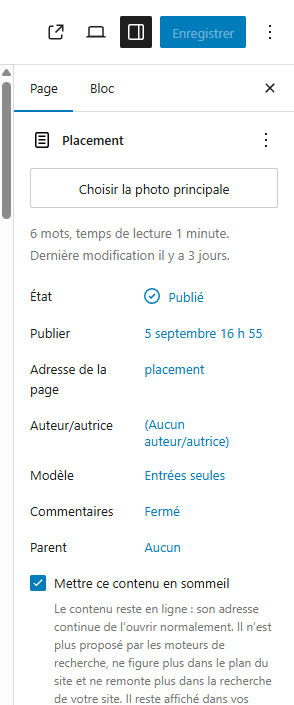
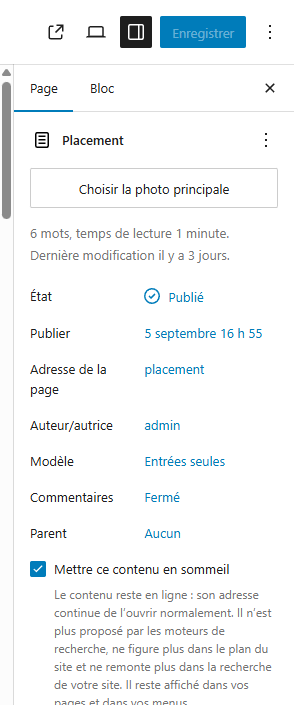
fix(contenu): reprendre la capture apres le correctif de #56 et acter la mesure de la page d'accueil (refs #54)
La capture « sommeil-page-zone-laterale.png » est reprise apres le correctif de
#56 (3dee808) : la rangee Auteur/autrice affiche de nouveau sa valeur reelle
(« admin ») au lieu de « (Aucun auteur/autrice) ». Sept assertions jouees avant
l'ecriture du fichier, la septieme portant sur cette rangee precisement, pour
que le defaut ne repasse pas en silence. La reprise annoncee au §12 ter est
soldee.

L'alt de la fiche n'est PAS retouche, et c'est mesure : sept rangees, meme
ordre, « Adresse de la page » toujours sur deux lignes. La condition posee au
§12 ter — reajuster si la hauteur ou l'ordre change — n'est pas remplie.

En revanche la premisse de la page d'accueil RESISTE a sa refutation, et le
contrat ne la corrige donc pas. Mesure sur post.php?post=6&action=edit, page
reglee en page d'accueil, en administrateur : la rangee rend « Lien », et ni
« Slug » ni « Adresse de la page ». Trois appuis concordants — le paquet
(isFrontPage ? __("Link") : __("Slug")), le catalogue ("Link":["Lien"]) et une
sonde DOM. Aucun mot interdit par §10.4 n'y parait pour autant : c'est une
limite de couverture, pas une faussete, et il n'y a rien a reparer. Seule
imprecision reellement corrigee : la source est « Link », l'affichage « Lien ».

Fait annexe releve au passage : l'ecran de la page d'accueil porte huit rangees
et non sept, une rangee « Revisions » s'intercalant avant « Parent ».

Claude-Session: https://claude.ai/code/session_01HmmUyw2FKmc8unYwFNU33k

Changed region(s): [[0.0918, 0.5929, 0.9184, 1.0]]

diff --git a/docs/contracts/issue-54.md b/docs/contracts/issue-54.md
@@ -549,6 +549,77 @@ oublié. **#56 a été renvoyée au travail sur ce défaut.** Dès que son corre
 
 ---
 
+## 12 quater. Acte du 2026-09-08 (second) — reprise faite, et une prémisse qui RÉSISTE à sa réfutation
+
+Aucune phrase gelée n'est réécrite ci-dessus ; cet acte s'y ajoute et prime sur elle en cas d'écart.
+
+### A. La capture est reprise — la reprise annoncée au §12 ter est SOLDÉE
+
+`docs/guide/captures/sommeil-page-zone-laterale.png` — **294 × 705**, 22 366 octets, Chrome installé en
+`--lang=fr-FR`, après le correctif de #56 (`3dee808`). **Sept assertions jouées avant l'écriture**, la
+septième étant celle que ce défaut a rendue nécessaire :
+
+```
+« Adresse de la page » présent                                              OK
+aucune feuille ne vaut exactement « Slug »                                  OK   (recherche exhaustive)
+case « Mettre ce contenu en sommeil » cochée                                OK
+« image mise en avant » absent de l'écran                                   OK   (0 occurrence)
+bouton « Enregistrer » présent                                              OK
+bouton « Enregistrer » compris dans le cadre de 294 px                      OK
+rangée Auteur/autrice résolue, non vide, pas « (Aucun auteur/autrice) »     OK → « admin »   ← 7e
+```
+
+**L'`alt` de `contenu-mettre-en-sommeil-et-reveiller.md:70` n'est PAS retouché, et c'est mesuré, pas
+supposé** : les rangées restent au nombre de sept, dans le même ordre, et « Adresse de la page » tient
+toujours sur **deux lignes** en surélevant sa rangée. La condition posée au §12 ter — « réajuster si la
+hauteur ou l'ordre change » — **n'est pas remplie**. Image et `alt` restent cohérents.
+
+### B. La page d'accueil — la prémisse du §12 bis est CONFIRMÉE, pas infirmée
+
+Il m'a été demandé de corriger le §12 bis au motif que la page d'accueil afficherait « Adresse de la
+page » comme n'importe quelle page, la rangée « Lien » n'existant que dans l'Éditeur de site.
+**Je ne l'ai pas corrigé, parce que ma propre mesure dit l'inverse**, et la règle de ce lot est qu'une
+affirmation se rouvre sur le disque avant d'entrer dans un contrat — quelle qu'en soit la source.
+
+Mesuré sur `post.php?post=6&action=edit`, page réglée en page d'accueil
+(`show_on_front=page`, `page_on_front=6`), **en administrateur**, après le correctif de #56 :
+
+```
+rangées : État · Publier · Lien · Auteur/autrice · Modèle · Commentaires · Révisions · Parent
+« Lien » = 1     « Slug » = 0     « Adresse de la page » = 0
+```
+
+Trois appuis indépendants, tous relevés dans le conteneur :
+
+```
+wp-includes/js/dist/editor.js     isFrontPage ? __("Link") : __("Slug")
+catalogue fr_FR-bf0f0949….json    "Link":["Lien"]
+sonde DOM sur post.php?post=6     la rangée rend « Lien »
+```
+
+**La rangée de la page d'accueil n'est donc pas couverte par ce module, et ce n'est pas un oubli** :
+notre table ne porte que le `msgid` `Slug`, et le cœur n'émet pas `Slug` sur cet écran. Aucun mot
+**interdit** par §10.4 n'y paraît pour autant — « Lien » n'est pas dans la liste des 21 —, donc **rien
+n'est à réparer** ; c'est une **limite de couverture**, pas une fausseté.
+
+**Une seule imprécision est réellement corrigée ici** : le §12 bis écrit « la rangée **dit** "Link" ».
+Le mot **affiché** est « **Lien** » ; « Link » est la **chaîne source** anglaise. Le module a raison de
+citer l'anglais — il compare sur l'anglais — mais « dit » désignait l'écran. Lire désormais : *source
+`Link`, affichage « Lien »*. Même lecture pour les deux commentaires du module qui emploient « Link »
+(`bootstrap.php` et `libelles.php`) : ils nomment la source, ils ne se trompent pas.
+
+**Fait annexe, non relevé jusqu'ici** : l'écran de la page d'accueil porte **huit** rangées et non
+sept — une rangée **« Révisions »** s'intercale avant « Parent ». Sans effet sur #54, écrit pour que
+personne ne l'ajoute à la table en croyant combler un trou.
+
+> **Imputation, dite franchement.** Je n'ai pas mesuré la page d'accueil dans la passe initiale : le
+> §12 bis la classait en « non mesuré », ce qui était honnête, et sa mention de « Link » venait d'un
+> commentaire du module, non d'une sonde. Elle est mesurée **maintenant**. Le désaccord avec la mesure
+> qui m'a été transmise n'est pas tranché ici : je rapporte ce que j'ai relevé, avec le geste et la
+> sortie, et je laisse le lot arbitrer.
+
+---
+
 ## 13. Ce que l'éleveuse voit changer
 
 Sur **l'écran d'une page, et nulle part ailleurs** : la rangée **« Slug »** s'appelle désormais
